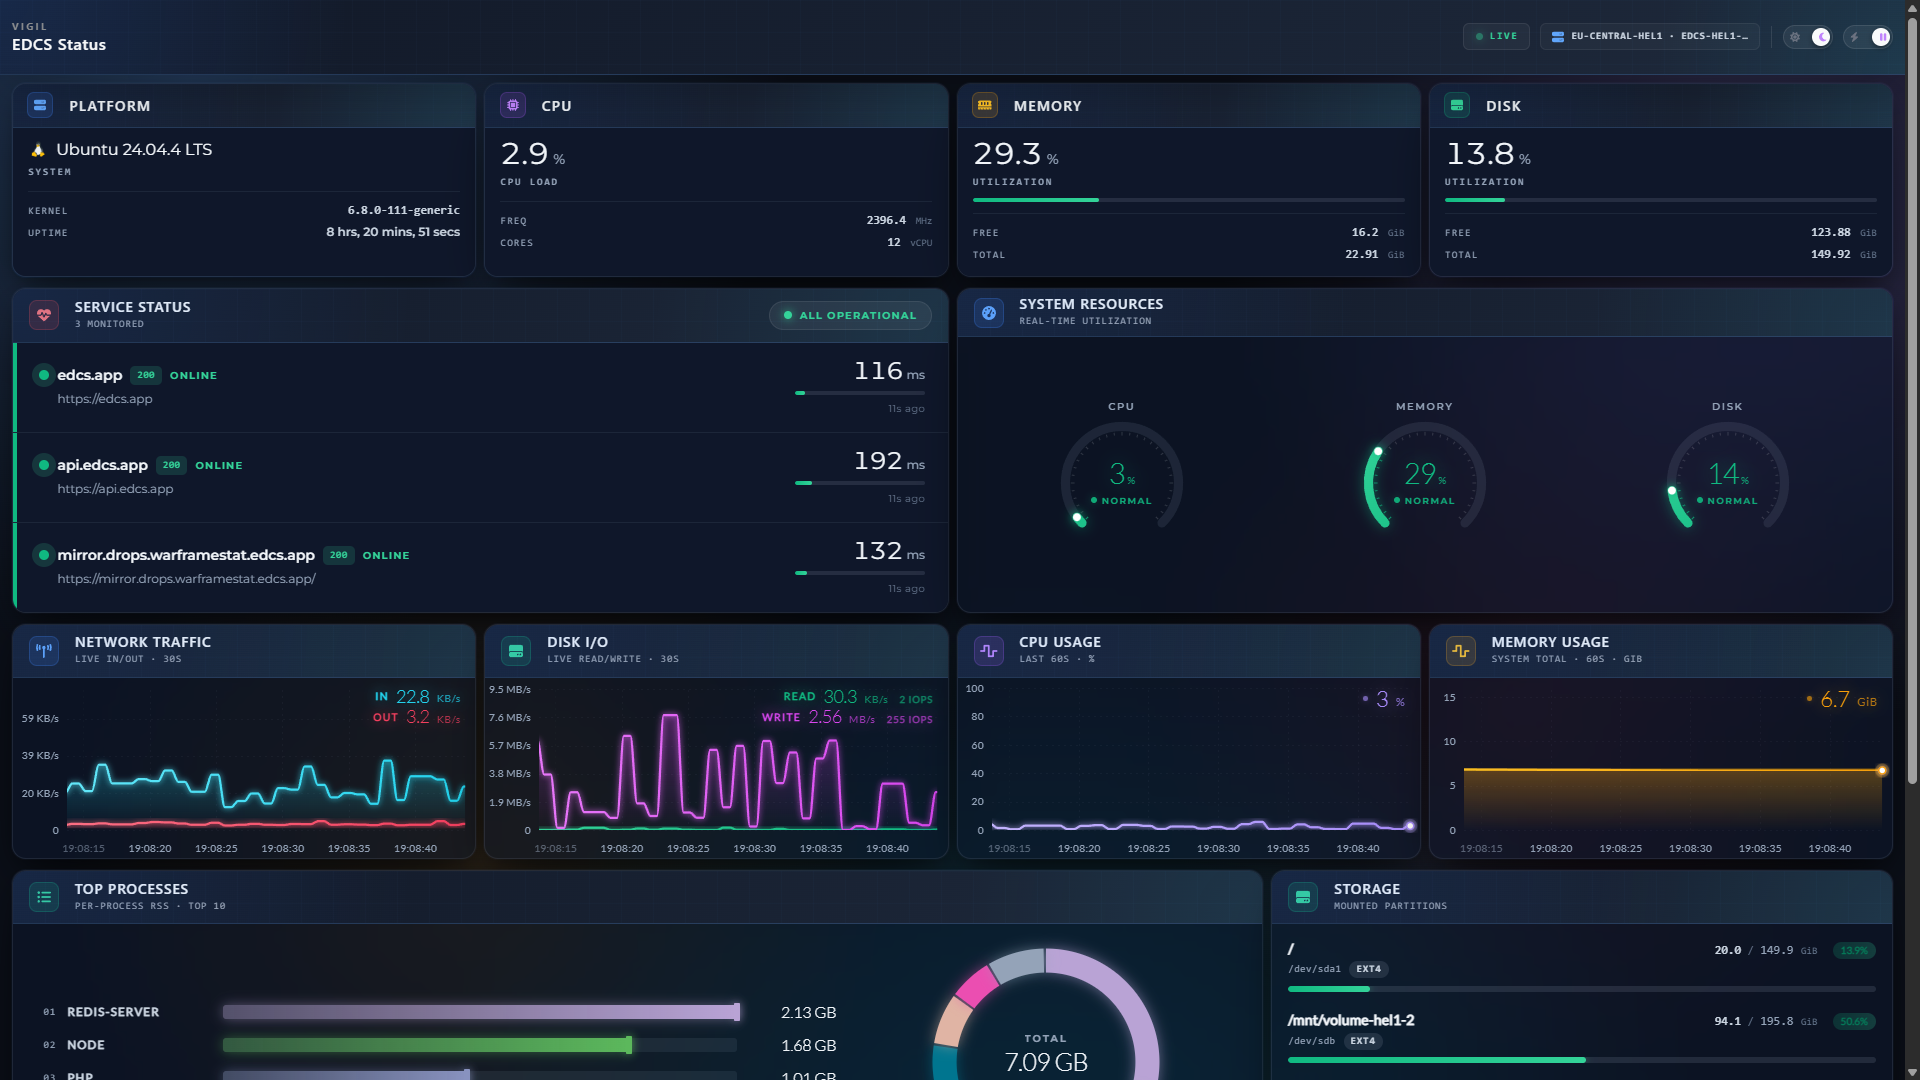
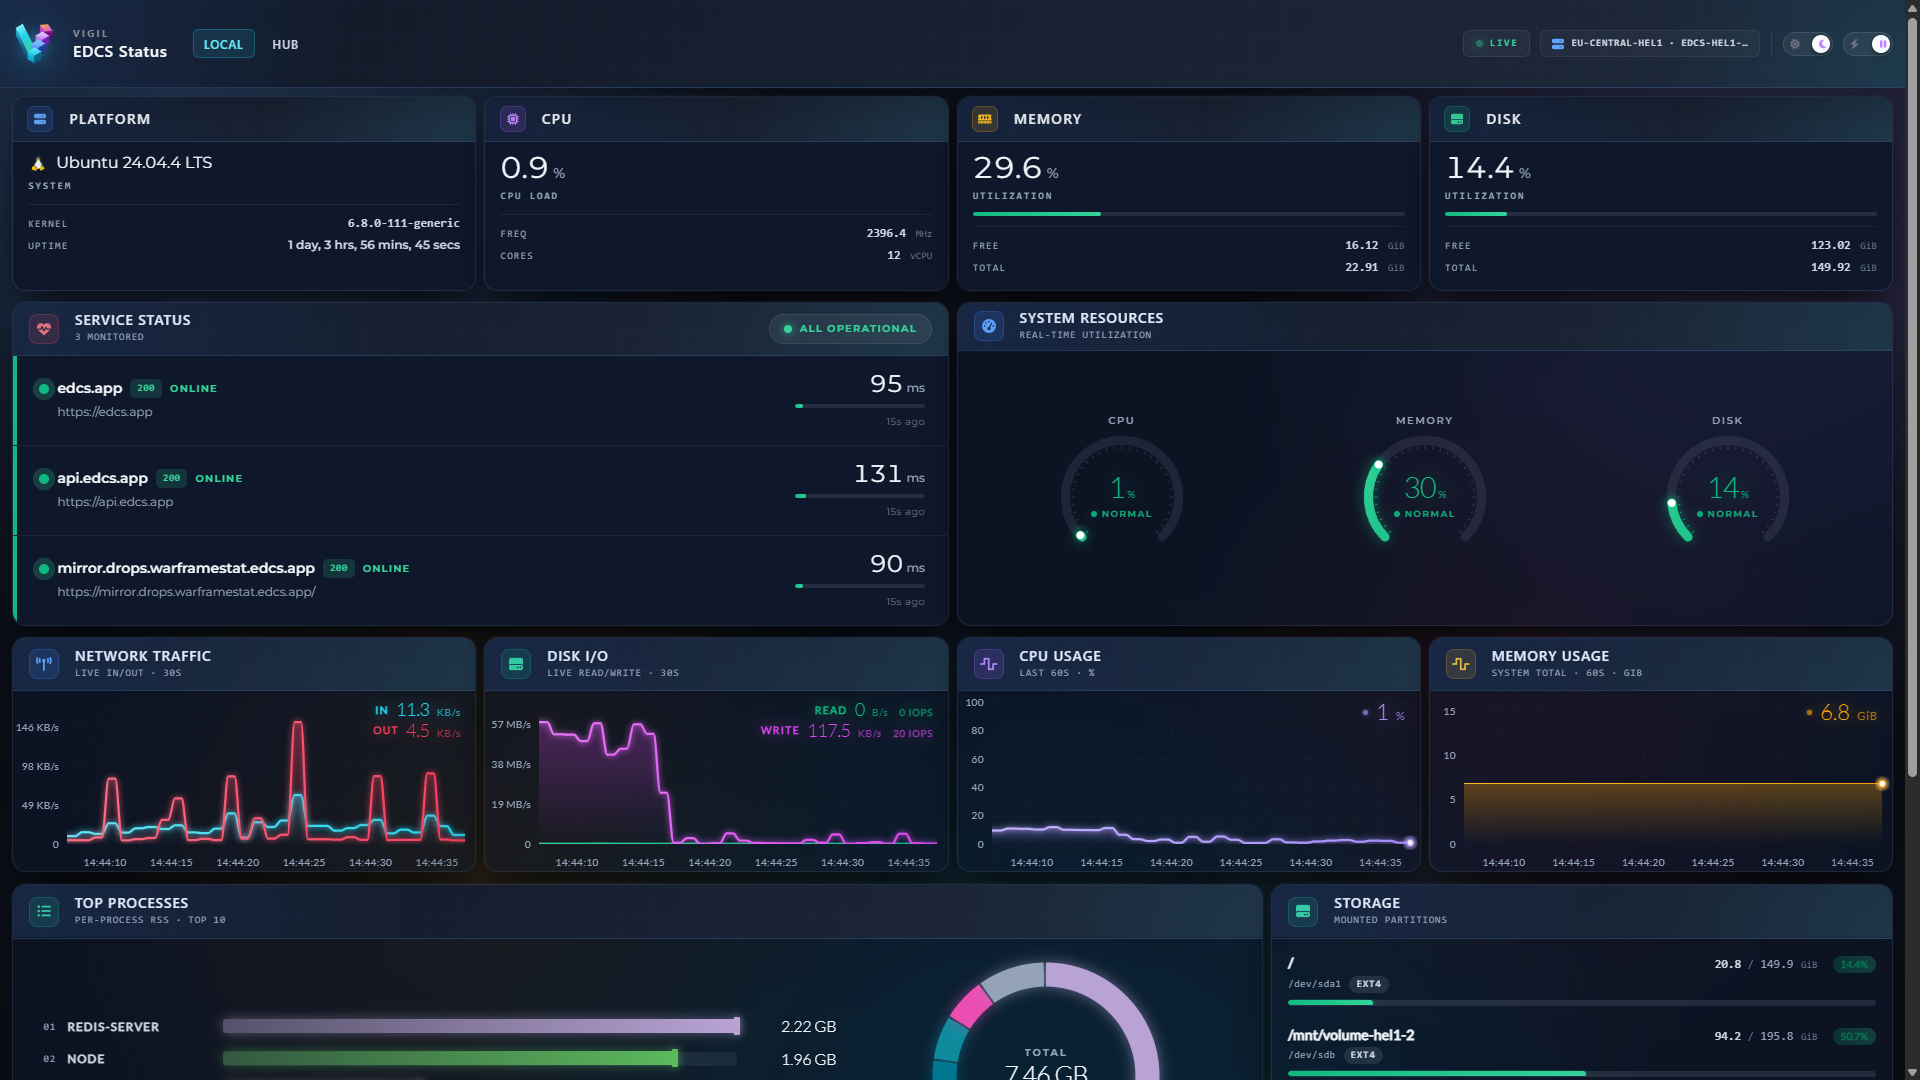
Update docs

diff --git a/docs/index.html b/docs/index.html
@@ -460,6 +460,108 @@
         height: auto;
       }
 
+      /* ───────────── Card stack — 3 layered browser frames ─────────────
+         Stack mode: cards overlap with offset / scale / tilt.
+         Spread mode: cards fan out horizontally so all three are visible.
+         Click any card in stack mode to cycle the front card to the back. */
+      .card-stack {
+        position: relative;
+        margin: 0 auto 1.4rem;
+        /* No fixed aspect-ratio — the front card flows naturally and
+           dictates container height from its image. Back cards fill
+           that natural size via absolute positioning. */
+        overflow: visible;
+      }
+      .stack-card {
+        cursor: pointer;
+        transform-origin: 50% 50%;
+        transition:
+          transform 600ms cubic-bezier(.2, .8, .2, 1),
+          filter 400ms ease;
+        will-change: transform;
+      }
+      /* Front card flows naturally — its image's natural height
+         determines the stack height, so the .browser frame fits the
+         screenshot exactly with no letterbox bars on either side. */
+      .stack-card[data-pos="0"] {
+        position: relative;
+        z-index: 30;
+        transform: translate3d(0, 0, 0) scale(1);
+      }
+      .stack-card:not([data-pos="0"]) {
+        position: absolute;
+        inset: 0;
+      }
+      .stack-card .browser {
+        height: 100%;
+        display: flex;
+        flex-direction: column;
+        cursor: inherit;
+      }
+      .stack-card .browser:hover { cursor: inherit; }
+      .stack-card .browser-shot {
+        display: block;
+        width: 100%;
+        /* Front card: natural height (auto). Back cards inherit the
+           container height via flex:1 below — they share the front
+           card's exact frame. */
+        height: auto;
+      }
+      .stack-card:not([data-pos="0"]) .browser-shot {
+        flex: 1 1 auto;
+        min-height: 0;
+        height: 100%;
+        object-fit: cover;
+        object-position: center top;
+      }
+
+      /* ─── Stack mode — peek-from-above, deck-of-papers feel ──────── */
+      .stack-card[data-pos="1"] {
+        z-index: 20;
+        transform: translate3d(0, -4.5%, 0) scale(0.96);
+        filter: brightness(0.9);
+      }
+      .stack-card[data-pos="2"] {
+        z-index: 10;
+        transform: translate3d(0, -9%, 0) scale(0.92);
+        filter: brightness(0.8);
+      }
+
+      /* ─── Stack controls ───────────────────────────────── */
+      .stack-controls {
+        display: flex;
+        align-items: center;
+        justify-content: center;
+        margin-top: 1rem;
+      }
+      .stack-hint {
+        display: inline-flex;
+        align-items: center;
+        gap: 0.45rem;
+        font-family: "IBM Plex Mono", ui-monospace, monospace;
+        font-size: 0.66rem;
+        letter-spacing: 0.18em;
+        text-transform: uppercase;
+        color: var(--text-mute);
+      }
+      .stack-hint::before {
+        content: "";
+        width: 7px; height: 7px;
+        border-radius: 50%;
+        background: var(--cyan);
+        box-shadow: 0 0 8px var(--cyan);
+        animation: stack-hint-pulse 1.6s ease-in-out infinite;
+      }
+      @keyframes stack-hint-pulse {
+        0%, 100% { opacity: 1; }
+        50%      { opacity: 0.45; }
+      }
+
+      @media (prefers-reduced-motion: reduce) {
+        .stack-card { transition: none; }
+        .stack-hint::before { animation: none; }
+      }
+
       /* ───────────── Section header ───────────── */
       .section { padding: 5rem 0; }
       .section-eyebrow {
@@ -1210,16 +1312,47 @@
       </div>
     </section>
 
-    <!-- ───────────── Screenshot ───────────── -->
+    <!-- ───────────── Screenshot stack ─────────────
+         Three layered "browser" cards. Click any card to shuffle
+         (front goes to back). Toggle Spread to fan them out. -->
     <section class="preview wrap reveal">
-      <div class="browser">
-        <div class="browser-bar">
-          <span class="browser-dot r"></span>
-          <span class="browser-dot y"></span>
-          <span class="browser-dot g"></span>
-          <span class="browser-url"><span class="lock">●</span> https://status.edcs.app</span>
+      <div class="card-stack" id="cardStack" data-expanded="false" role="group" aria-label="Vigil dashboard screenshots — click to cycle">
+        <div class="stack-card" data-pos="0">
+          <div class="browser">
+            <div class="browser-bar">
+              <span class="browser-dot r"></span>
+              <span class="browser-dot y"></span>
+              <span class="browser-dot g"></span>
+              <span class="browser-url"><span class="lock">●</span> https://status.edcs.app</span>
+            </div>
+            <img class="browser-shot" src="dashboard.png" alt="Single-host dashboard with CPU, memory, disk, network and process metrics" loading="lazy" />
+          </div>
         </div>
-        <img class="browser-shot" src="dashboard.png" alt="Vigil dashboard screenshot showing CPU, memory, disk, network and process metrics" loading="lazy" />
+        <div class="stack-card" data-pos="1">
+          <div class="browser">
+            <div class="browser-bar">
+              <span class="browser-dot r"></span>
+              <span class="browser-dot y"></span>
+              <span class="browser-dot g"></span>
+              <span class="browser-url"><span class="lock">●</span> https://status.edcs.app/hub</span>
+            </div>
+            <img class="browser-shot" src="hub.png" alt="Hub fleet overview — multi-host status, alerts, recent activity" loading="lazy" />
+          </div>
+        </div>
+        <div class="stack-card" data-pos="2">
+          <div class="browser">
+            <div class="browser-bar">
+              <span class="browser-dot r"></span>
+              <span class="browser-dot y"></span>
+              <span class="browser-dot g"></span>
+              <span class="browser-url"><span class="lock">●</span> https://status.edcs.app/hub/hosts/1</span>
+            </div>
+            <img class="browser-shot" src="overview.png" alt="Per-host detail — system data sheet, health card, sparkline metrics" loading="lazy" />
+          </div>
+        </div>
+      </div>
+      <div class="stack-controls">
+        <span class="stack-hint" id="stackHint">click to view</span>
       </div>
     </section>
 
@@ -1730,6 +1863,27 @@
           el.addEventListener("pointermove", onMove);
           el.addEventListener("pointerleave", reset);
         });
+      }
+
+      // ─── Card stack: click any card to cycle the front to the back.
+      const stack = document.getElementById("cardStack");
+      if (stack) {
+        const cards = [...stack.querySelectorAll(".stack-card")];
+        let frontIdx = 0;
+
+        const applyPositions = () => {
+          cards.forEach((card, i) => {
+            const pos = (i - frontIdx + cards.length) % cards.length;
+            card.dataset.pos = String(pos);
+          });
+        };
+
+        stack.addEventListener("click", () => {
+          frontIdx = (frontIdx + 1) % cards.length;
+          applyPositions();
+        });
+
+        applyPositions();
       }
     </script>
   </body>
